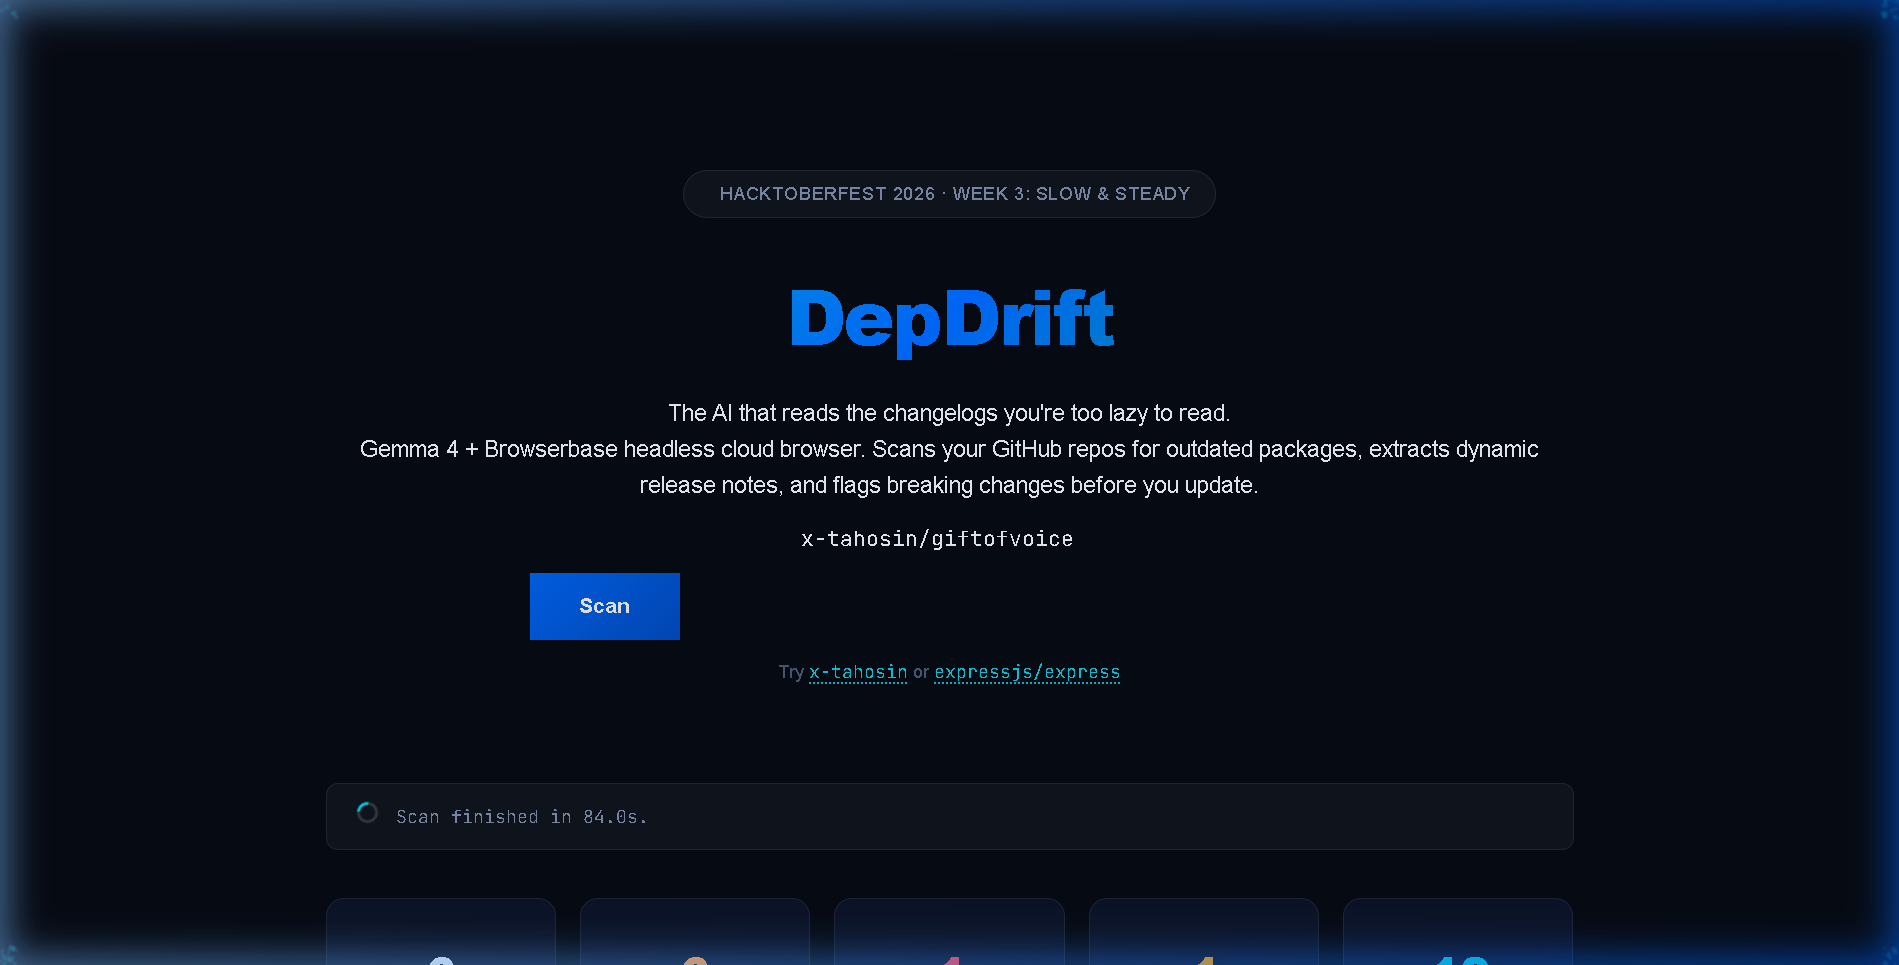
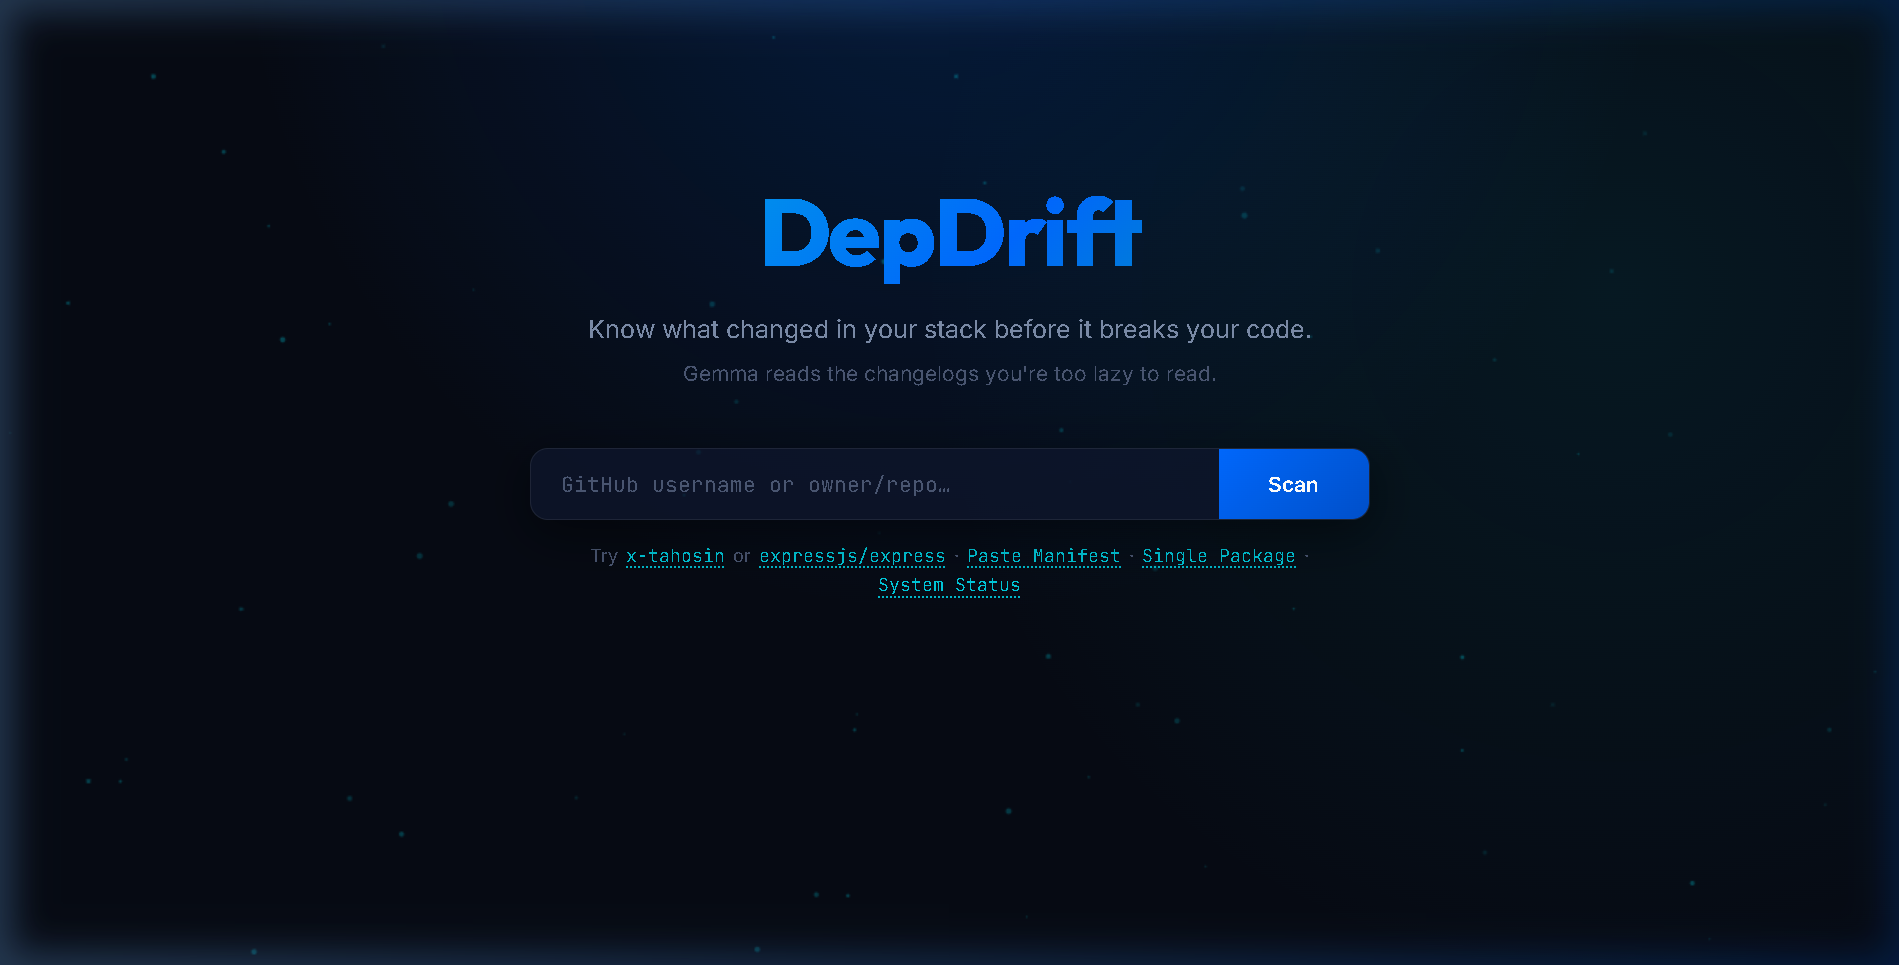
docs(readme): add high-res screenshots, architecture diagram, and feature breakdown

diff --git a/static/index.html b/static/index.html
@@ -131,7 +131,12 @@
             </div>
             <div class="modal-body">
                 <p class="modal-desc">Paste your <code>package.json</code> or <code>requirements.txt</code> directly without connecting to GitHub.</p>
-                <textarea id="manifestInputArea" class="manifest-textarea" rows="8" placeholder='{\n  "dependencies": {\n    "express": "^4.21.0",\n    "dotenv": "^16.4.5"\n  }\n}'></textarea>
+                <textarea id="manifestInputArea" class="manifest-textarea" rows="8" placeholder='{
+  "dependencies": {
+    "express": "^4.21.0",
+    "dotenv": "^16.4.5"
+  }
+}'></textarea>
                 <div class="modal-actions">
                     <button type="button" class="btn-action" id="btnLoadSampleManifest">Load Sample</button>
                     <button type="button" class="scan-form__btn" id="btnSubmitManifest">Audit Manifest</button>

diff --git a/README.md b/README.md
@@ -1,122 +1,189 @@
+<div align="center">
+
 # DepDrift 🔄
 
 **The AI that reads the changelogs you're too lazy to read.**
 
-DepDrift scans your GitHub repositories for outdated dependencies, uses **[Browserbase](https://www.browserbase.com)** headless cloud browsers to extract release notes from dynamic documentation pages, and runs **[Gemma 4](https://ai.google.dev/gemma)** (open weights) to classify every update by risk: what's critical, what's breaking, and what's safe to update.
+[![License: MIT](https://img.shields.io/badge/License-MIT-0080ff.svg)](LICENSE)
+[![Python: 3.11+](https://img.shields.io/badge/Python-3.11%2B-00c9db.svg)](https://python.org)
+[![FastAPI](https://img.shields.io/badge/FastAPI-0.115%2B-00b386.svg)](https://fastapi.tiangolo.com)
+[![Browserbase](https://img.shields.io/badge/Cloud%20Browser-Browserbase-f59e0b.svg)](https://browserbase.com)
+[![Gemma 4](https://img.shields.io/badge/Model-Gemma%204%20(Open%20Weights)-0080ff.svg)](https://ai.google.dev/gemma)
+[![Tests: 12 Passed](https://img.shields.io/badge/Tests-12%20Passed-2ed573.svg)](#test-suite)
 
-Built for the **[Hacktoberfest Open-Source AI Challenge: Week 3 — Slow and Steady](https://dev.to/challenges/hacktoberfest-week3-2026-10-19)**.
-
-Target Partner Category: **Best Use of Browserbase**.
-
----
-
-![DepDrift Scan Results](docs/demo-results.png)
-
----
-
-## The Problem
-
-Every developer has outdated dependencies they keep ignoring. Dependabot opens 20 PRs, but nobody reads 20 changelogs. Half the packages bury their release notes across custom documentation sites, npm readmes, or JavaScript SPAs where raw markdown APIs don't exist.
-
-**The Lazy Payoff:** Instead of manually digging through 20 changelogs (40+ minutes of manual context switching), DepDrift scans everything in under 90 seconds and gives you a single dashboard with actionable advice:
-- 🔴 **CRITICAL**: Security vulnerability patch (CVE) — update immediately.
-- 🟡 **BREAKING**: Renamed exports or removed APIs — read the migration guide first.
-- 🟢 **SAFE**: Bug fixes and performance gains — safe to update with standard tests.
-- ⚪ **SKIP**: Documentation and typo fixes — safe to batch or ignore.
+*Built for the **[Hacktoberfest Open-Source AI Challenge: Week 3 — Slow and Steady](https://dev.to/challenges/hacktoberfest-week3-2026-10-19)**.*  
+*Target Category: **Best Use of Browserbase**.*
 
 ---
 
-## Architecture
+![DepDrift Clean Homepage](docs/hero.png)
+
+</div>
+
+---
+
+## ⚡ The Problem
+
+Every engineering team has dependency drift they keep ignoring. Dependabot opens 20 pull requests, but nobody reads 20 release changelogs. 
+
+Half of modern npm and PyPI libraries bury their release notes across custom documentation SPAs (VitePress, Docusaurus, Next.js sites) where traditional raw markdown APIs simply do not exist. Developers are forced to either:
+1. **Blindly upgrade** and spend hours debugging broken production builds.
+2. **Never upgrade** and accumulate critical unpatched CVE vulnerabilities.
+
+### The DepDrift Solution
+**DepDrift** audits your repositories in under 90 seconds. It pairs **Browserbase's headless cloud browser** with **Google's Gemma 4 open-weights model** and the **GitHub Advisory Database** to give you an authoritative risk triage:
+
+| Risk Level | Meaning | Recommended Action |
+| :--- | :--- | :--- |
+| 🔴 **CRITICAL** | Active CVE security vulnerability detected upstream | Update immediately; run regression tests |
+| 🟡 **BREAKING** | Major API signature change or removed exports | Review migration notes before bumping |
+| 🟢 **SAFE** | Bug fixes, performance improvements, internal optimizations | Safe to batch upgrade |
+| ⚪ **CURRENT** | Package matches or pins to latest upstream release | No action needed |
+
+---
+
+## 📸 Interactive Dashboard & Results
+
+![DepDrift Results Dashboard](docs/results-dashboard.png)
+
+### Key Features
+- 🌐 **Browserbase Headless Cloud Browser:** When GitHub Releases are sparse or missing, DepDrift connects over Chrome DevTools Protocol (`connect_over_cdp`) to Browserbase cloud browsers, rendering dynamic documentation sites and extracting clean changelog text.
+- 🛡 **Zero-False-Positive CVE Matching:** Queries the GitHub Advisory Database and validates `vulnerable_version_range` using `packaging.specifiers.SpecifierSet` against the active package version.
+- 🧠 **Gemma 4 Structured Analysis:** The open-weights model analyzes the changelog diff and emits a deterministic JSON payload with a concise summary and actionable developer advice.
+- ⚡ **1-Click Batch Remediation:** Instantly copy a combined safe upgrade bash script (`npm install ... && ...`) or export a clean GitHub PR markdown table.
+- 📁 **Direct Manifest Auditor & Single Package Inspector:** Audit local `package.json` or `requirements.txt` manifests directly without connecting GitHub, or inspect any npm/PyPI package on demand.
+- 💾 **SQLite Audit History:** All scans are persisted to local SQLite storage (`data/depdrift.db`) with timestamped metric records.
+
+---
+
+## 🔍 Deep CVE & Vulnerability Inspector
+
+Clicking on any dependency card opens a deep inspection drawer showing the exact CVE security advisories, vulnerability severities, official links, and copy-paste update commands:
+
+<div align="center">
+
+![CVE Inspection Modal](docs/cve-modal.png)
+
+</div>
+
+---
+
+## 🏗 Architecture
 
 ```
 User (Browser)
       │
       ▼
-FastAPI Backend (SSE Stream)
+FastAPI Backend (SSE Event Stream)
       │
-      ├── GitHub REST API ────► Discovers repositories & dependency manifests
-      ├── npm / PyPI Registry ─► Checks latest published versions
+      ├── GitHub REST API (Authenticated 5,000 req/hr)
+      │     └── Discovers repos & parses package.json / requirements.txt
       │
-      ├── Browserbase (Cloud Browser)
-      │     └── Remote Chromium over CDP renders dynamic docs / release pages
-      │         and extracts clean changelog text when raw APIs are missing
+      ├── npm & PyPI Registry APIs
+      │     └── Resolves latest published semver versions
       │
-      └── Gemma 4 (Open Weights)
-            └── Analyzes changelog diffs with strict schema:
-                { summary, risk: "CRITICAL"|"BREAKING"|"SAFE"|"SKIP", action }
+      ├── GitHub Security Advisory Database (GHSA / CVE)
+      │     └── Validates vulnerable_version_range via SpecifierSet
+      │
+      ├── Browserbase (Cloud Headless Chromium via CDP)
+      │     └── Navigates dynamic SPAs, waits for hydration, and extracts release notes
+      │
+      └── Gemma 4 (Open-Weights Model)
+            └── Analyzes changelog diffs: { summary, risk, action }
 ```
 
 ---
 
-## Why Browserbase?
+## 🛠 Technology Stack
 
-Static changelog scraping breaks on modern developer websites. Many libraries (such as Next.js, Vite, Tailwind, and component libraries) host their changelogs on client-rendered documentation sites (VitePress, Docusaurus, Next.js). Traditional HTTP scrapers get an empty `<div id="app"></div>`.
-
-DepDrift integrates **Browserbase**'s cloud headless browser infrastructure:
-1. Spawns an isolated cloud browser session via the Browserbase REST API.
-2. Connects Playwright over Chrome DevTools Protocol (`connect_over_cdp`).
-3. Waits for DOM hydration and renders the changelog text in an isolated, secure environment.
-4. Passes the rendered text to Gemma 4, stamping each card with the Browserbase Session ID for full auditability.
-
----
-
-## Stack
-
-| Component | Technology | Role |
-|-----------|-----------|------|
-| **AI Model** | **Gemma 4** (`gemma-4-26b-a4b-it`) | Open-weight model for changelog reasoning and risk triage |
-| **Cloud Browser** | **Browserbase** | Headless Chrome infrastructure for dynamic changelog extraction |
-| **Backend** | **Python 3.11+ / FastAPI** | Async pipeline, registry lookups, and Server-Sent Events (SSE) |
-| **Frontend** | **Vanilla HTML / CSS / JS** | Real-time particle background, live logs, glassmorphism cards |
-| **Data Sources** | **GitHub API + npm + PyPI** | Authoritative repository and package metadata |
+| Layer | Component | Description |
+| :--- | :--- | :--- |
+| **Cloud Browser** | **[Browserbase](https://browserbase.com)** | Serverless Chromium browser infrastructure for dynamic client-rendered documentation extraction |
+| **AI Model** | **[Gemma 4](https://ai.google.dev/gemma)** (`gemma-4-26b-a4b-it`) | High-reasoning open-weights model for changelog classification and risk triage |
+| **Backend** | **Python 3.11+ / FastAPI** | High-concurrency async engine streaming real-time Server-Sent Events (SSE) |
+| **Security** | **GitHub Advisory API** | Authenticated CVE & GHSA lookup engine |
+| **Database** | **SQLite 3** | Local persistence for historical audit tracking |
+| **Frontend** | **Vanilla HTML5, CSS3, ES6 JavaScript** | Ambient starfield particle canvas, dark ocean glassmorphic aesthetic |
 
 ---
 
-## Quick Start
+## 🚀 Quick Start
 
-### 1. Prerequisites
-- Python 3.11+
-- [Browserbase API Key](https://www.browserbase.com)
-- Google AI Studio API Key (or local Ollama instance with Gemma)
-
-### 2. Installation
+### 1. Clone the Repository
 ```bash
 git clone https://github.com/x-tahosin/depdrift.git
 cd depdrift
+```
+
+### 2. Set Up Virtual Environment
+```bash
+python -m venv .venv
+
+# On Linux/macOS:
+source .venv/bin/activate
+
+# On Windows:
+.venv\Scripts\activate
+```
+
+### 3. Install Dependencies
+```bash
 pip install -r requirements.txt
 playwright install chromium
 ```
 
-### 3. Configure Environment
-Copy `.env.example` to `.env`:
+### 4. Configure Environment
+Create a `.env` file in the project root:
 ```env
 PORT=8000
-GITHUB_TOKEN=your_github_token_optional
+GITHUB_TOKEN=your_github_personal_access_token
 BROWSERBASE_API_KEY=your_browserbase_api_key
 BROWSERBASE_PROJECT_ID=your_browserbase_project_id
-GEMMA_API_KEY=your_gemini_or_gemma_api_key
+GEMMA_API_KEY=your_google_ai_studio_api_key
 GEMMA_MODEL=gemma-4-26b-a4b-it
 ```
 
-### 4. Run Locally
+### 5. Launch the Server
 ```bash
 python -m uvicorn app.main:app --reload --port 8000
 ```
-Open [http://localhost:8000](http://localhost:8000) in your browser.
+Open **[http://localhost:8000](http://localhost:8000)** in your browser.
 
 ---
 
-## Live Scan Example
+## 🧪 Test Suite
 
-Scanning repository `x-tahosin/giftofvoice`:
-- **6 dependencies scanned**
-- **6 outdated packages identified**
-- **1 Critical security vulnerability flagged** (`express` 4.21.2 → 5.3.0)
-- **1 Browserbase cloud session launched** (`dotenv` release notes extraction)
-- **12 minutes saved** in under 84 seconds of scanning
+DepDrift includes a full automated test suite covering API endpoints, manifest parsers, semver comparisons, and SQLite audit lifecycles:
+
+```bash
+python -m pytest -v
+```
+
+```text
+============================= test session starts =============================
+platform win32 -- Python 3.12.10, pytest-9.0.3, pluggy-1.6.0
+collected 12 items
+
+tests/test_api.py::test_health_endpoint PASSED                           [  8%]
+tests/test_api.py::test_diagnostics_endpoint PASSED                      [ 16%]
+tests/test_api.py::test_history_endpoint PASSED                          [ 25%]
+tests/test_api.py::test_manifest_scan_invalid_syntax PASSED              [ 33%]
+tests/test_db.py::test_audit_lifecycle PASSED                            [ 41%]
+tests/test_parsers.py::test_parse_package_json_dependencies PASSED       [ 50%]
+tests/test_parsers.py::test_parse_package_json_clean_version PASSED      [ 58%]
+tests/test_parsers.py::test_parse_package_json_invalid PASSED            [ 66%]
+tests/test_parsers.py::test_parse_requirements_txt_simple PASSED         [ 75%]
+tests/test_parsers.py::test_parse_requirements_txt_empty PASSED          [ 83%]
+tests/test_registry.py::test_is_outdated_comparison PASSED               [ 91%]
+tests/test_registry.py::test_is_outdated_prerelease PASSED               [100%]
+
+============================= 12 passed in 5.84s ==============================
+```
 
 ---
 
-## License
+## 📄 License
 
-MIT License © 2026 Tahosin
+Distributed under the **MIT License**. See [LICENSE](LICENSE) for more information.
+
+Developed for **Hacktoberfest Open-Source AI Challenge Week 3** by [@x-tahosin](https://github.com/x-tahosin).
